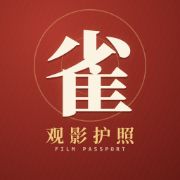
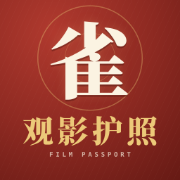
桌面图标：放大「观影护照」文字 (#134)
Claude-Session: https://claude.ai/code/session_01Jw57E3p4BNpLB1nvpbZbWR

diff --git a/tools/make-app-icons.js b/tools/make-app-icons.js
@@ -10,12 +10,12 @@ background:radial-gradient(120% 120% at 30% 18%,#b13a2f 0%,#8e2a22 46%,#5e1712 1
 .g{position:absolute;inset:0;transform:scale(${scale});transform-origin:50% 50%}
 .frame{position:absolute;inset:54px;border-radius:84px;border:5px solid rgba(232,196,118,.85);display:${frame ? 'block' : 'none'}}
 .frame:after{content:"";position:absolute;inset:14px;border-radius:70px;border:2px solid rgba(232,196,118,.45)}
-.reel{position:absolute;left:50%;top:372px;width:640px;height:640px;margin-left:-320px;margin-top:-320px;border-radius:50%;border:6px solid rgba(232,196,118,.38)}
+.reel{position:absolute;left:50%;top:330px;width:600px;height:600px;margin-left:-300px;margin-top:-300px;border-radius:50%;border:6px solid rgba(232,196,118,.38)}
 .reel i{position:absolute;width:92px;height:92px;border-radius:50%;background:rgba(232,196,118,.26);left:274px;top:274px}
 .reel b{position:absolute;inset:150px;border-radius:50%;border:3px solid rgba(232,196,118,.3)}
-.que{position:absolute;left:0;right:0;top:128px;text-align:center;font-size:520px;font-weight:900;line-height:1;color:#fbf3e2;text-shadow:0 10px 0 rgba(60,12,8,.35),0 0 60px rgba(255,214,140,.18)}
-.sub{position:absolute;left:0;right:0;top:690px;text-align:center;font-size:104px;font-weight:700;letter-spacing:.28em;padding-left:.28em;color:#ecc979}
-.en{position:absolute;left:0;right:0;top:830px;text-align:center;font:600 31px "DejaVu Sans Mono",monospace;letter-spacing:.42em;padding-left:.42em;color:rgba(251,243,226,.7)}
+.que{position:absolute;left:0;right:0;top:84px;text-align:center;font-size:470px;font-weight:900;line-height:1;color:#fbf3e2;text-shadow:0 10px 0 rgba(60,12,8,.35),0 0 60px rgba(255,214,140,.18)}
+.sub{position:absolute;left:0;right:0;top:608px;text-align:center;font-size:176px;font-weight:900;letter-spacing:.12em;padding-left:.12em;color:#ecc979}
+.en{position:absolute;left:0;right:0;top:858px;text-align:center;font:600 36px "DejaVu Sans Mono",monospace;letter-spacing:.42em;padding-left:.42em;color:rgba(251,243,226,.7)}
 .perf{position:absolute;left:150px;right:150px;top:806px;height:3px;background:repeating-linear-gradient(90deg,rgba(232,196,118,.7) 0 16px,transparent 16px 30px)}
 </style><div class="stripe"></div><div class="frame"></div>
 <div class="g"><div class="reel"><b></b></div>

diff --git a/sw.js b/sw.js
@@ -1,5 +1,5 @@
 /* 麻雀观影护照 service worker：页面和 data/ 排片数据走“网络优先”（保证排片总是最新），海报、图标等静态资源走“缓存优先”，离线时也能打开上次看过的内容。 */
-const CACHE = "sk-v76";
+const CACHE = "sk-v77";
 const CORE = ["./", "./index.html", "./manifest.webmanifest", "./vendor/qrcode.js", "./shared/recap.js","./shared/psync.js", "./shared/library.js", "./shared/profile-backup.js", "./styles/companion.css", "./brand/passport-aperture.svg", "./data/catalog.json", "./icons/icon-192.png", "./icons/apple-touch-icon.png", "./brand/sparrow-movies-sq.png", "./brand/sparrow-tribe-sq.png", "./brand/sparrow-movies-sq-dark.png", "./brand/sparrow-tribe-sq-dark.png"];
 
 self.addEventListener("install", e => {
